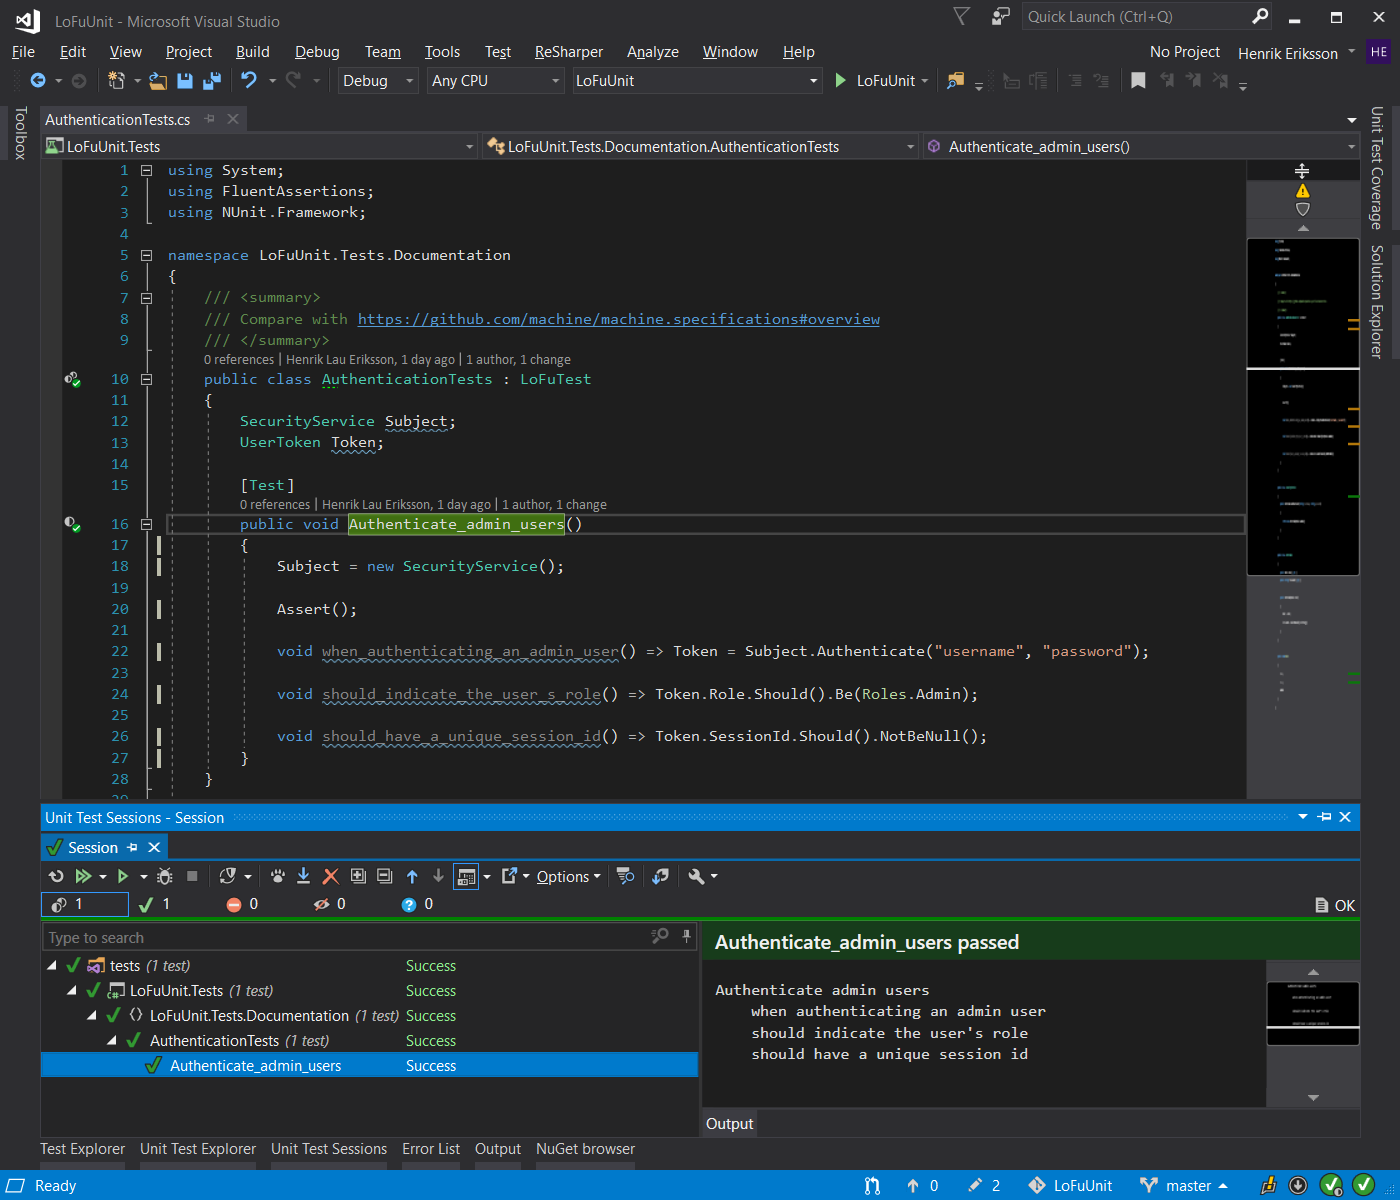
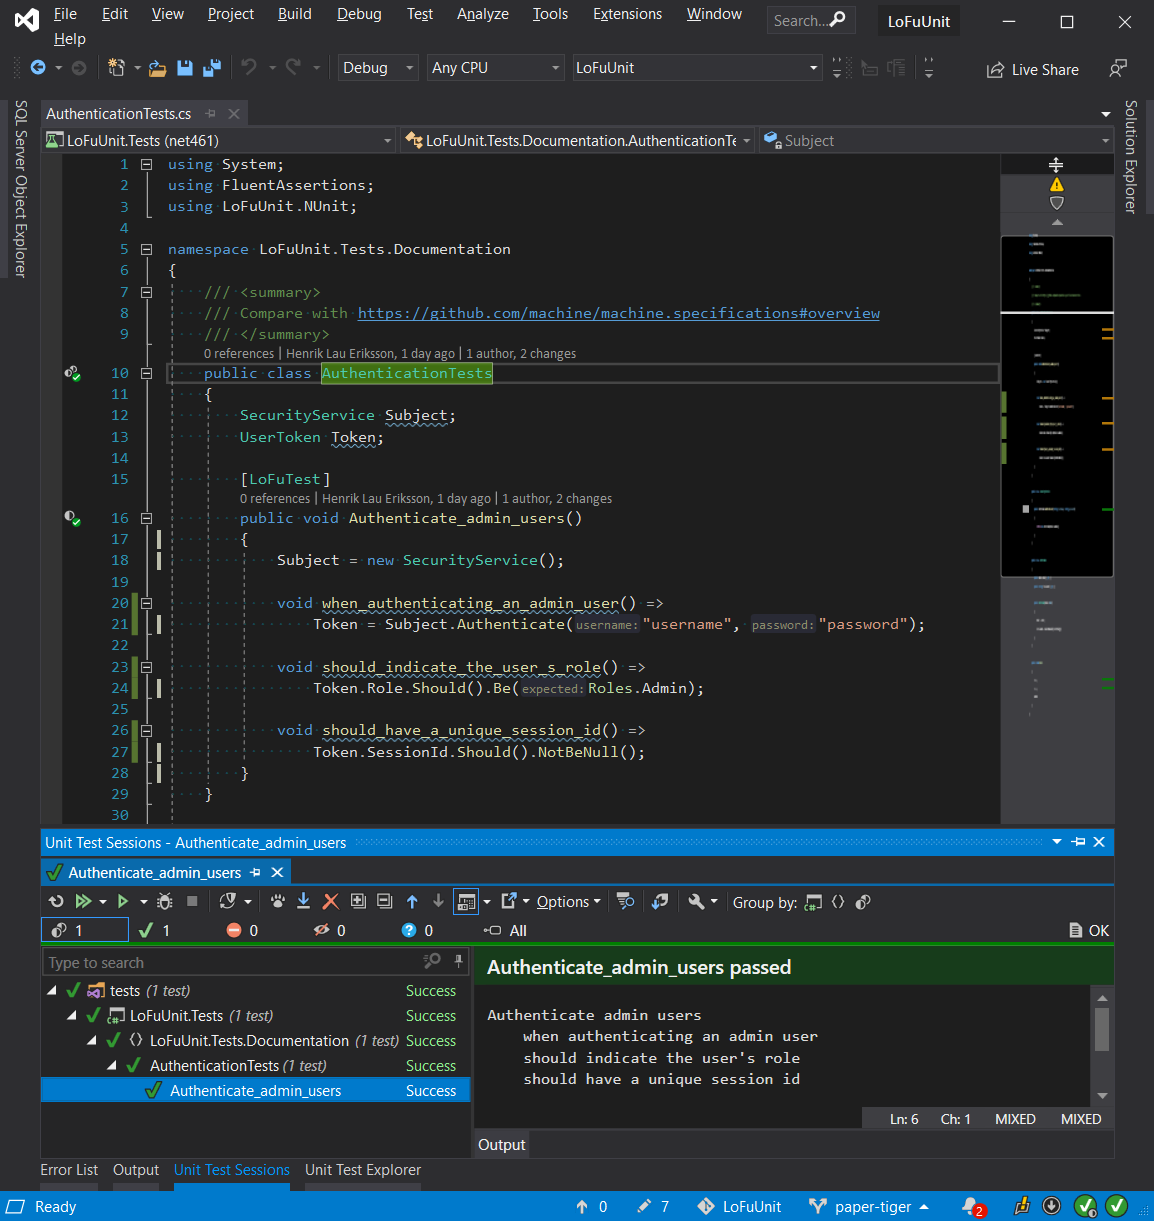
readme

diff --git a/README.md b/README.md
@@ -23,19 +23,21 @@
 - [Introduction](#introduction)
 - [Testing](#testing)
   - [Packages](#packages)
-  - [Tests](#tests-)
-  - [Output](#output-)
-  - [Limitations](#limitations-)
-  - [Caveats](#caveats-%EF%B8%8F)
+  - [Tests ✔](#tests-)
+  - [Output 📃](#output-)
+  - [Limitations ❗](#limitations-)
+  - [Inconclusiveness ⁉](#inconclusiveness-)
 - [Auto Mocking](#auto-mocking)
   - [Packages](#packages-1)
   - [Mocks](#mocks)
-  - [Limitations](#limitations--1)
+  - [Limitations ❗](#limitations--1)
+- [Results](#results)
+- [Troubleshooting](#troubleshooting)
 - [Attribution](#attribution)
 
 # Introduction
 
-Use the traditional Unit Testing Frameworks to practice **TDD** or **BDD**.
+Use the traditional Unit Testing Frameworks for **BDD**.
 
 Use _local functions_ to structure tests with patterns like:
 
@@ -63,30 +65,33 @@ What are local functions?
 
 # Testing
 
+An example of a test with [LoFuUnit.NUnit](https://www.nuget.org/packages/LoFuUnit.NUnit/):
+
 ```csharp
 using System;
 using FluentAssertions;
-using NUnit.Framework;
+using LoFuUnit.NUnit;
 
 namespace LoFuUnit.Tests.Documentation
 {
-    public class AuthenticationTests : LoFuTest
+    public class AuthenticationTests
     {
         SecurityService Subject;
         UserToken Token;
 
-        [Test]
+        [LoFuTest]
         public void Authenticate_admin_users()
         {
             Subject = new SecurityService();
 
-            Assert();
+            void when_authenticating_an_admin_user() =>
+                Token = Subject.Authenticate("username", "password");
 
-            void when_authenticating_an_admin_user() => Token = Subject.Authenticate("username", "password");
+            void should_indicate_the_user_s_role() =>
+                Token.Role.Should().Be(Roles.Admin);
 
-            void should_indicate_the_user_s_role() => Token.Role.Should().Be(Roles.Admin);
-
-            void should_have_a_unique_session_id() => Token.SessionId.Should().NotBeNull();
+            void should_have_a_unique_session_id() =>
+                Token.SessionId.Should().NotBeNull();
         }
     }
 }
@@ -177,7 +182,7 @@ Suffixing a word with `_s_` will add _possessive_ form to the word in the test o
 
 Take the opportunity to invent your own convention for naming test methods and test functions.
 
-Use keywords like:
+Consider using keywords like:
 
 * `given`
 * `when`
@@ -189,60 +194,61 @@ What characters can be used when naming test methods and test functions?
 
 You can use the `Log` method from the `LoFuTest` base class to write custom messages to the test output.
 
-The naming of `assemblies`, `namespaces`, `classes` and `methods` can also make tests readable in your test runner.
+The naming of `assemblies`, `namespaces` and `classes` can also make the test suite more readable in your test runner.
 
-## Limitations ⛔
+## Limitations ❗
 
 **Rule #1**: Test functions must return `void` or `Task`
 
+The `Assert` method can only invoke local functions that:
+
+* are *synchronous* and returns `void`
+
+The `AssertAsync` method can only invoke local functions that:
+
+* are *synchronous* and returns `void`, or
+* are *asynchronous* and returns `Task`
+
 **Rule #2**: Test functions must be parameterless
 
-The `Assert` method only invokes local functions of the test method that:
+The `Assert` and `AssertAsync` methods can only invoke local functions that:
 
-* returns `void`
 * has no parameters
 
-The `AssertAsync` method only invokes local functions of the test method that:
+**Rule #3**: Test functions must **not** use variables declared at test method scope, i.e. local variables in the containing method (including its parameters)
 
-* returns `void` or `Task`
-* has no parameters
+The solution for this is to use test fixture [members](https://docs.microsoft.com/en-us/dotnet/csharp/programming-guide/classes-and-structs/members), e.g. fields, properties, methods etc.
 
-**Rule #3**: Test functions must **only** use test fixture [members](https://docs.microsoft.com/en-us/dotnet/csharp/programming-guide/classes-and-structs/members), e.g. fields, properties, methods etc
-
-**Rule #4**: Test functions must **not** use variables declared at test method scope, i.e. local variables in the containing method (including its parameters)
-
-So, when a local function needs access to a variable from the test method or from another local function:
+When a test function needs access to data from the test method or another test function:
 
 * use a variable declared at test fixture scope, i.e. a [field](https://docs.microsoft.com/en-us/dotnet/csharp/programming-guide/classes-and-structs/fields)
 
-It is easy to break rule #4 by mistake, because:
+It is easy to break rule #3 by mistake, because:
 
 > Note that all local variables that are defined in the containing member, including its method parameters, are accessible in the local function.
 
-Test functions that break these rules will not be invoked when the test method is running.
+## Inconclusiveness ⁉
 
-## Caveats ⚠
+Test functions that break these abovementioned rules can not be invoked when the test method is running.
 
-Breaking the limitations described above may lead to false positives.
-Green tests that should have been red.
+The `Assert` and `AssertAsync` methods will first validate the local functions in the test method scope, before they are invoked.
+If any violations of the rules are found, an `InconclusiveLoFuTestException` is thrown.
+The exception includes a message with the local functions that should be reviewed.
 
-Test functions that are not invoked can be hard to spot.
+With the `[LoFu]` and `[LoFuTest]` attributes in [LoFuUnit.NUnit](https://www.nuget.org/packages/LoFuUnit.NUnit/), the test runner clearly shows inconclusive tests:
 
-Detect them by:
-
-1. Examine the test output. If the name of the function is not written to the test output, then it was not invoked.
-2. Debugging the test method. If a breakpoint in the function was not hit, then it was not invoked.
-
-If one test function is not invoked, other dependent test functions may fail.
+![Inconclusive](inconclusive.png)
 
 # Auto Mocking
+
+An example of a test with [LoFuUnit.AutoNSubstitute](https://www.nuget.org/packages/LoFuUnit.AutoNSubstitute/) and [LoFuUnit.NUnit](https://www.nuget.org/packages/LoFuUnit.NUnit/):
 
 ```csharp
 using System;
 using FluentAssertions;
 using LoFuUnit.AutoNSubstitute;
+using LoFuUnit.NUnit;
 using NSubstitute;
-using NUnit.Framework;
 
 namespace LoFuUnit.Tests.Documentation
 {
@@ -250,11 +256,9 @@ namespace LoFuUnit.Tests.Documentation
     {
         string _mood;
 
-        [Test]
+        [LoFuTest]
         public void Identify_mood_on_mondays()
         {
-            Assert();
-
             void given_the_current_day_is_monday()
             {
                 var monday = new DateTime(2011, 2, 14);
@@ -264,9 +268,11 @@ namespace LoFuUnit.Tests.Documentation
                     .Returns(monday);
             }
 
-            void when_identifying_my_mood() => _mood = Subject.IdentifyMood();
+            void when_identifying_my_mood() =>
+                _mood = Subject.IdentifyMood();
 
-            void should_be_pretty_bad() => _mood.Should().Be("Pretty bad");
+            void should_be_pretty_bad() =>
+                _mood.Should().Be("Pretty bad");
         }
     }
 }
@@ -314,17 +320,73 @@ Consult the [AutoFixture documentation](https://github.com/AutoFixture/AutoFixtu
 
 Examples of usage can be found in the [samples](/samples) folder.
 
-## Limitations ⛔
+## Limitations ❗
 
 Before you can access a mock / dependency via the `The<TDependency>` method,
 you must first call one of the `Use<TDependency>` methods for that specific type.
 The `The<TDependency>` method will return `null` for unknown mocks / dependencies.
 
+# Results
+
+The test result output can be used as documentation.
+
+With the [`dotnet test`](https://docs.microsoft.com/en-us/dotnet/core/tools/dotnet-test) command, the output can be captured via:
+
+```bat
+dotnet test --logger:"console;verbosity=detailed"
+```
+
+![dotnet test --logger:"console;verbosity=detailed"](dotnet-test-logger-console.png)
+
+```bat
+dotnet test --logger:trx
+```
+
+![dotnet test --logger:trx](dotnet-test-logger-trx.png)
+
+# Troubleshooting
+
+If you something like this:
+
+```
+LoFuUnit.InconclusiveLoFuTestException : Invocation of test method 'when_Assert_on_inconclusive_test_method' aborted. One or more test functions are inconclusive. Test functions must be parameterless, and cannot use variables declared at test method scope. Please review the following local functions:
+	should_not_invoke_test_function_that_access_test_method_variables
+   at LoFuUnit.LoFuTest.ThrowInconclusive(MethodBase method, IEnumerable`1 names) in C:\work\github\LoFuUnit\src\LoFuUnit\LoFuTest.cs:line 146
+   at LoFuUnit.LoFuTest.Validate(MethodBase method) in C:\work\github\LoFuUnit\src\LoFuUnit\LoFuTest.cs:line 118
+   at LoFuUnit.LoFuTest.Assert(Object testFixture, MethodBase testMethod) in C:\work\github\LoFuUnit\src\LoFuUnit\LoFuTest.cs:line 41
+   at LoFuUnit.LoFuTest.Assert() in C:\work\github\LoFuUnit\src\LoFuUnit\LoFuTest.cs:line 24
+   at LoFuUnit.Tests.Integration.LoFuTestTests.when_Assert_on_inconclusive_test_method() in C:\work\github\LoFuUnit\tests\LoFuUnit.Tests\Integration\LoFuTestTests.cs:line 89
+```
+
+Then you broke Rule #2 or #3, described above.
+Make sure that the local functions do not have any parameters.
+And furthermore, that the local functions do not access any variables declared in the containing method.
+Rewrite the test so that data is passed to the local functions via fields declared in the containing class.
+
+If you something like this:
+
+```
+LoFuUnit.InconclusiveLoFuTestException : Invocation of test function 'should_not_invoke_async_test_function_that_returns_void' failed. The asynchronous local function does not have a valid return type. Asynchronous test functions must return a Task, and cannot return void or Task<TResult>.
+   at LoFuUnit.LoFuTest.AssertAsync(Object testFixture, MethodBase testMethod) in C:\work\github\LoFuUnit\src\LoFuUnit\LoFuTest.cs:line 84
+   at LoFuUnit.LoFuTest.AssertAsync() in C:\work\github\LoFuUnit\src\LoFuUnit\LoFuTest.cs:line 36
+   at LoFuUnit.Tests.Integration.LoFuTestTests.when_AssertAsync_on_invalid_test_function() in C:\work\github\LoFuUnit\tests\LoFuUnit.Tests\Integration\LoFuTestTests.cs:line 129
+   at NUnit.Framework.Internal.TaskAwaitAdapter.GenericAdapter`1.GetResult()
+   at NUnit.Framework.Internal.AsyncToSyncAdapter.Await(Func`1 invoke)
+   at NUnit.Framework.Internal.Commands.TestMethodCommand.RunTestMethod(TestExecutionContext context)
+   at NUnit.Framework.Internal.Commands.TestMethodCommand.Execute(TestExecutionContext context)
+   at NUnit.Framework.Internal.Commands.BeforeAndAfterTestCommand.<>c__DisplayClass1_0.<Execute>b__0()
+   at NUnit.Framework.Internal.Commands.BeforeAndAfterTestCommand.RunTestMethodInThreadAbortSafeZone(TestExecutionContext context, Action action)
+```
+
+Then you broke Rule #1, described above.
+Make sure that the `async` local functions does not return `void`.
+Rewrite the test so that the asynchronous local functions return a `Task`.
+
 # Attribution
 
 LoFuUnit is standing on the shoulders of giants.
 
-It is inspired by https://github.com/machine/machine.specifications and https://github.com/machine/machine.fakes
+It is inspired by https://github.com/machine/machine.specifications and https://github.com/machine/machine.specifications.fakes
 
 It builds upon:
 
